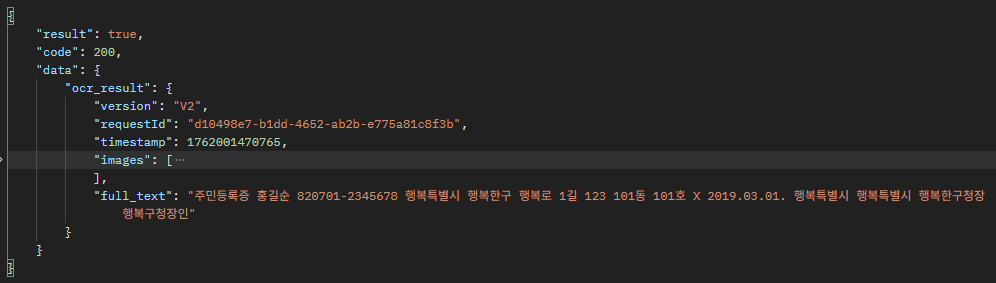
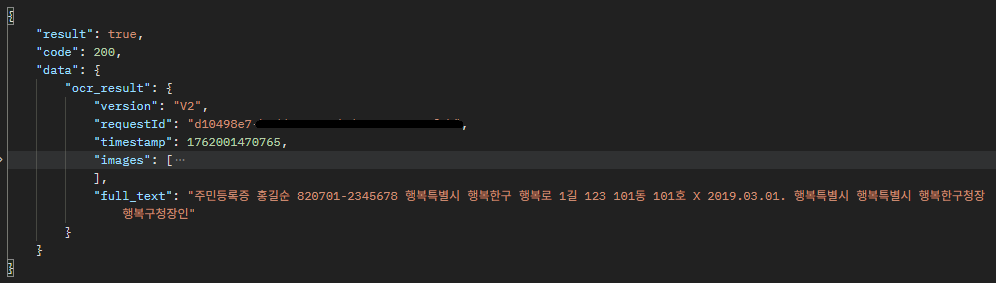
docs: README 샘플 이미지 설명 추가

Changed region(s): [[0.249, 0.424, 0.4669, 0.4523]]

diff --git a/README.md b/README.md
@@ -39,9 +39,13 @@ FastAPI 기반의 OCR 서비스로, EasyOCR, PaddleOCR, ClovaOCR 등 다양한 O
 
 
 ## 📸 실행 화면
+### 샘플 이미지
 ![샘플 이미지](storage/screenshots/sample.png)
+### Naver Clova OCR 추출 결과
 ![Naver Clova OCR 추출 결과](storage/screenshots/clovaocr.PNG)
+### EasyOCR 추출 결과
 ![EasyOCR 추출 결과](storage/screenshots/easyocr.PNG)
+### PaddleOCR 추출 결과
 ![PaddleOCR 추출 결과](storage/screenshots/paddleocr.PNG)
 
 
